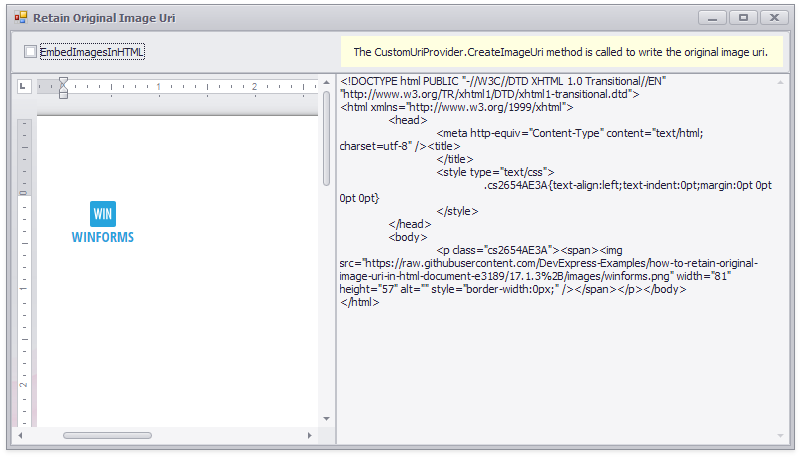
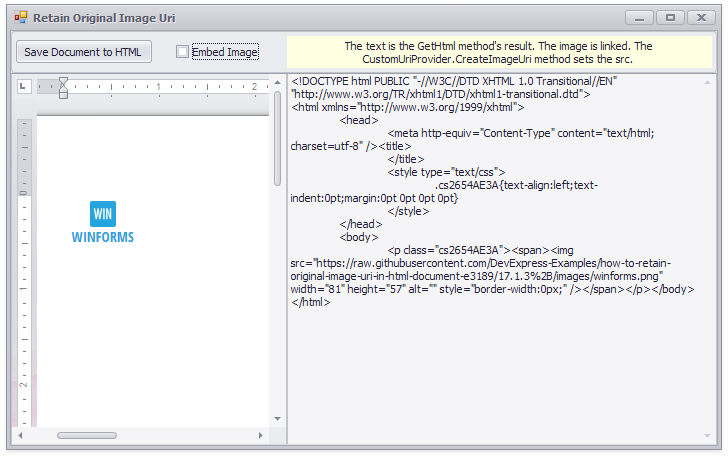
Add the Save Document button, update screenshot and Readme.md

diff --git a/CS/HTML_Export_ImageSourceExample/Form1.Designer.cs b/CS/HTML_Export_ImageSourceExample/Form1.Designer.cs
@@ -32,7 +32,10 @@ namespace Retain_Img_Src
             this.lblText = new DevExpress.XtraEditors.LabelControl();
             this.embedImagesCheck = new DevExpress.XtraEditors.CheckEdit();
             this.memoEdit1 = new DevExpress.XtraEditors.MemoEdit();
+            this.simpleButton1 = new DevExpress.XtraEditors.SimpleButton();
+            this.btnSave = new DevExpress.XtraEditors.SimpleButton();
             ((System.ComponentModel.ISupportInitialize)(this.panelControl1)).BeginInit();
+            this.panelControl1.SuspendLayout();
             ((System.ComponentModel.ISupportInitialize)(this.embedImagesCheck.Properties)).BeginInit();
             ((System.ComponentModel.ISupportInitialize)(this.memoEdit1.Properties)).BeginInit();
             this.SuspendLayout();
@@ -42,18 +45,19 @@ namespace Retain_Img_Src
             this.richEditControl1.Dock = System.Windows.Forms.DockStyle.Fill;
             this.richEditControl1.Location = new System.Drawing.Point(0, 42);
             this.richEditControl1.Name = "richEditControl1";
-            this.richEditControl1.Size = new System.Drawing.Size(325, 372);
+            this.richEditControl1.Size = new System.Drawing.Size(276, 372);
             this.richEditControl1.TabIndex = 0;
             this.richEditControl1.Text = "richEditControl1";
             // 
             // panelControl1
             // 
+            this.panelControl1.Controls.Add(this.btnSave);
             this.panelControl1.Controls.Add(this.lblText);
             this.panelControl1.Controls.Add(this.embedImagesCheck);
             this.panelControl1.Dock = System.Windows.Forms.DockStyle.Top;
             this.panelControl1.Location = new System.Drawing.Point(0, 0);
             this.panelControl1.Name = "panelControl1";
-            this.panelControl1.Size = new System.Drawing.Size(779, 42);
+            this.panelControl1.Size = new System.Drawing.Size(706, 42);
             this.panelControl1.TabIndex = 3;
             // 
             // lblText
@@ -63,42 +67,53 @@ namespace Retain_Img_Src
             this.lblText.Appearance.Options.UseTextOptions = true;
             this.lblText.Appearance.TextOptions.HAlignment = DevExpress.Utils.HorzAlignment.Center;
             this.lblText.Appearance.TextOptions.VAlignment = DevExpress.Utils.VertAlignment.Center;
+            this.lblText.Appearance.TextOptions.WordWrap = DevExpress.Utils.WordWrap.Wrap;
             this.lblText.AutoSizeMode = DevExpress.XtraEditors.LabelAutoSizeMode.None;
-            this.lblText.Location = new System.Drawing.Point(330, 5);
+            this.lblText.Location = new System.Drawing.Point(276, 5);
             this.lblText.Name = "lblText";
-            this.lblText.Size = new System.Drawing.Size(442, 31);
+            this.lblText.Size = new System.Drawing.Size(425, 32);
             this.lblText.TabIndex = 1;
             this.lblText.Text = "labelControl1";
             // 
             // embedImagesCheck
             // 
-            this.embedImagesCheck.Location = new System.Drawing.Point(12, 11);
+            this.embedImagesCheck.Location = new System.Drawing.Point(164, 11);
             this.embedImagesCheck.Name = "embedImagesCheck";
-            // 
-            // 
-            // 
-            this.embedImagesCheck.Properties.Caption = "EmbedImagesInHTML";
-            this.embedImagesCheck.Size = new System.Drawing.Size(127, 19);
+            this.embedImagesCheck.Properties.Caption = "Embed Image";
+            this.embedImagesCheck.Size = new System.Drawing.Size(89, 19);
             this.embedImagesCheck.TabIndex = 0;
             this.embedImagesCheck.CheckedChanged += new System.EventHandler(this.embedImagesCheck_CheckedChanged);
             // 
             // memoEdit1
             // 
             this.memoEdit1.Dock = System.Windows.Forms.DockStyle.Right;
-            this.memoEdit1.Location = new System.Drawing.Point(325, 42);
+            this.memoEdit1.Location = new System.Drawing.Point(276, 42);
             this.memoEdit1.Name = "memoEdit1";
-            // 
-            // 
-            // 
             this.memoEdit1.Properties.ReadOnly = true;
-            this.memoEdit1.Size = new System.Drawing.Size(454, 372);
+            this.memoEdit1.Size = new System.Drawing.Size(430, 372);
             this.memoEdit1.TabIndex = 4;
+            // 
+            // simpleButton1
+            // 
+            this.simpleButton1.Location = new System.Drawing.Point(0, 0);
+            this.simpleButton1.Name = "simpleButton1";
+            this.simpleButton1.Size = new System.Drawing.Size(75, 23);
+            this.simpleButton1.TabIndex = 0;
+            // 
+            // btnSave
+            // 
+            this.btnSave.Location = new System.Drawing.Point(5, 9);
+            this.btnSave.Name = "btnSave";
+            this.btnSave.Size = new System.Drawing.Size(136, 23);
+            this.btnSave.TabIndex = 2;
+            this.btnSave.Text = "Save Document to HTML";
+            this.btnSave.Click += new System.EventHandler(this.btnSave_Click);
             // 
             // Form1
             // 
             this.AutoScaleDimensions = new System.Drawing.SizeF(6F, 13F);
             this.AutoScaleMode = System.Windows.Forms.AutoScaleMode.Font;
-            this.ClientSize = new System.Drawing.Size(779, 414);
+            this.ClientSize = new System.Drawing.Size(706, 414);
             this.Controls.Add(this.richEditControl1);
             this.Controls.Add(this.memoEdit1);
             this.Controls.Add(this.panelControl1);
@@ -106,6 +121,7 @@ namespace Retain_Img_Src
             this.Name = "Form1";
             this.Text = "Retain Original Image Uri";
             ((System.ComponentModel.ISupportInitialize)(this.panelControl1)).EndInit();
+            this.panelControl1.ResumeLayout(false);
             ((System.ComponentModel.ISupportInitialize)(this.embedImagesCheck.Properties)).EndInit();
             ((System.ComponentModel.ISupportInitialize)(this.memoEdit1.Properties)).EndInit();
             this.ResumeLayout(false);
@@ -119,6 +135,8 @@ namespace Retain_Img_Src
         private DevExpress.XtraEditors.CheckEdit embedImagesCheck;
         private DevExpress.XtraEditors.MemoEdit memoEdit1;
         private DevExpress.XtraEditors.LabelControl lblText;
+        private DevExpress.XtraEditors.SimpleButton simpleButton1;
+        private DevExpress.XtraEditors.SimpleButton btnSave;
     }
 }
 

diff --git a/CS/HTML_Export_ImageSourceExample/Form1.cs b/CS/HTML_Export_ImageSourceExample/Form1.cs
@@ -42,9 +42,9 @@ namespace Retain_Img_Src
 
         private void embedImagesCheck_CheckedChanged(object sender, EventArgs e) {
             if (embedImagesCheck.Checked)
-                lblText.Text = "CustomUriProvider is idle.";
+                lblText.Text = "The text is the GetHtml method's result. The image is embedded. The CustomUriProvider is idle.";
             else
-                lblText.Text = "The CustomUriProvider.CreateImageUri method is called to write the original image uri.";
+                lblText.Text = "The text is the GetHtml method's result. The image is linked. The CustomUriProvider.CreateImageUri method sets the src.";
             ReloadHtml();
         }
 
@@ -52,6 +52,12 @@ namespace Retain_Img_Src
         {
             DocumentPosition pos = richEditControl1.Document.CaretPosition;
             richEditControl1.Document.Images.Insert(pos, DocumentImageSource.FromUri(imageUri, null));
+        }
+
+        private void btnSave_Click(object sender, EventArgs e)
+        {
+            richEditControl1.SaveDocument("test.html", DevExpress.XtraRichEdit.DocumentFormat.Html);
+            System.Diagnostics.Process.Start("test.html");
         }
     }
 }

diff --git a/Readme.md b/Readme.md
@@ -7,7 +7,8 @@
 # How to retain the original image URI in an HTML document
 
 
-This example demonstrates how to use the [DocumentImage.Uri](https://docs.devexpress.com/OfficeFileAPI/DevExpress.XtraRichEdit.API.Native.DocumentImage.Uri) property to set the image's **src** attribute when a document is saved in HTML format.
+This example demonstrates how to use the [DocumentImage.Uri](https://docs.devexpress.com/OfficeFileAPI/DevExpress.XtraRichEdit.API.Native.DocumentImage.Uri) property to set the image's **src** attribute when a document is saved in HTML format. You can switch on the [HtmlDocumentExporterOptions.EmbedImages](https://docs.devexpress.com/OfficeFileAPI/DevExpress.XtraRichEdit.Export.HtmlDocumentExporterOptions.EmbedImages) option to observe that the custom URI provider is idle for emdedded images.
+
 
 ![](./images/screenshot.png)
 
@@ -20,8 +21,9 @@ API in this example:
 * [IUriProviderService.RegisterProvider](https://docs.devexpress.com/OfficeFileAPI/DevExpress.Office.Services.IUriProviderService.RegisterProvider(DevExpress.Office.Services.IUriProvider)) method
 * [RichEditControl.GetService](https://docs.devexpress.com/WindowsForms/DevExpress.XtraRichEdit.RichEditControl.GetService.overloads) method
 * [DocumentImageSource.FromUri](https://docs.devexpress.com/OfficeFileAPI/DevExpress.XtraRichEdit.API.Native.DocumentImageSource.FromUri(System.String-System.ComponentModel.Design.IServiceContainer)) method
-* [SubDocument.Images](https://docs.devexpress.com/OfficeFileAPI/DevExpress.XtraRichEdit.API.Native.SubDocument.Images)
-* [SubDocument.GetHtmlText](https://docs.devexpress.com/OfficeFileAPI/DevExpress.XtraRichEdit.API.Native.SubDocument.GetHtmlText.overloads)
+* [SubDocument.Images](https://docs.devexpress.com/OfficeFileAPI/DevExpress.XtraRichEdit.API.Native.SubDocument.Images) property
+* [SubDocument.GetHtmlText](https://docs.devexpress.com/OfficeFileAPI/DevExpress.XtraRichEdit.API.Native.SubDocument.GetHtmlText.overloads) method
+* [HtmlDocumentExporterOptions.EmbedImages](https://docs.devexpress.com/OfficeFileAPI/DevExpress.XtraRichEdit.Export.HtmlDocumentExporterOptions.EmbedImages) property
 
 **See also:**
 
